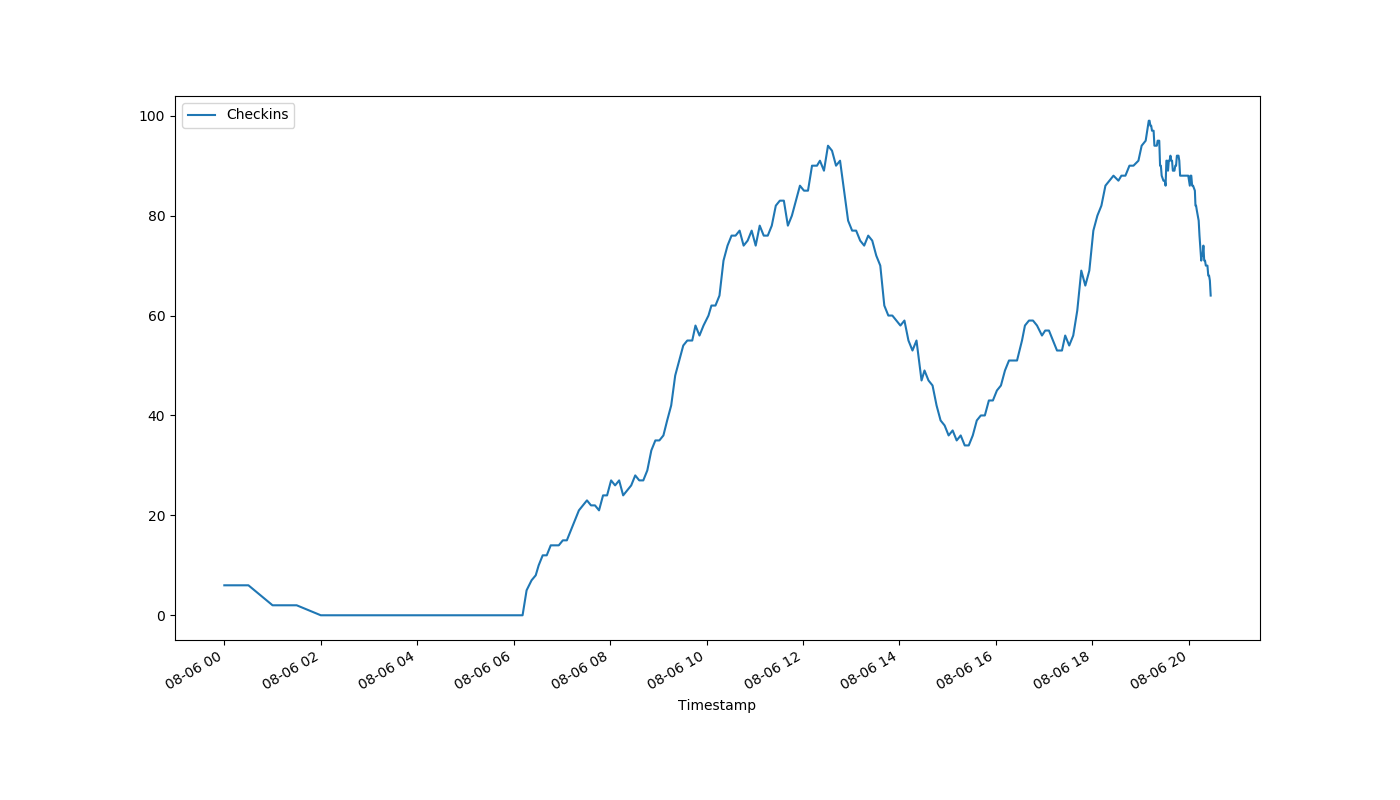
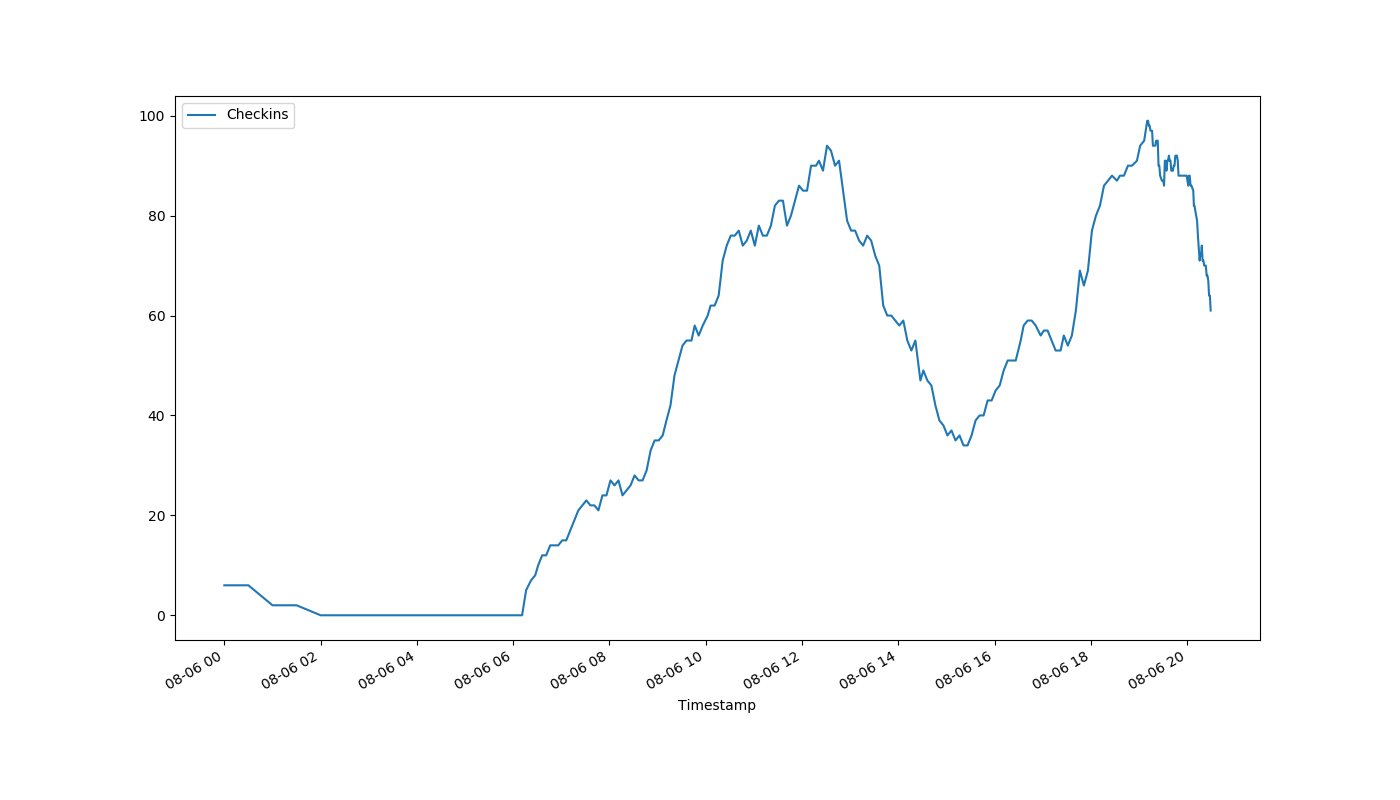
auto-Aug-06-20:29:50

diff --git a/index.html b/index.html
@@ -1,1 +1,1 @@
-<!DOCTYPE html><html><head><meta http-equiv="refresh" content="15"><link rel='stylesheet' href='holmcurrent.css'></head><body><p id='count'>64</p><div id='graph-wrap'><img id='graph' src='holmgraph-Aug-06.png'></div><p id='updated'>Last updated 20:27:15 / 20:27:12</p></body></html>
+<!DOCTYPE html><html><head><meta http-equiv="refresh" content="15"><link rel='stylesheet' href='holmcurrent.css'></head><body><p id='count'>61</p><div id='graph-wrap'><img id='graph' src='holmgraph-Aug-06.png'></div><p id='updated'>Last updated 20:29:16 / 20:29:12</p></body></html>
